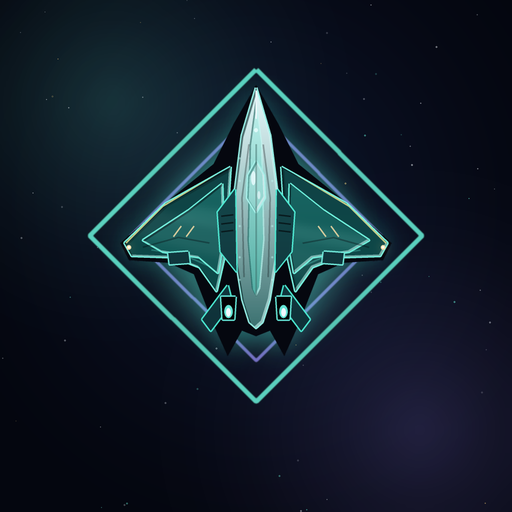
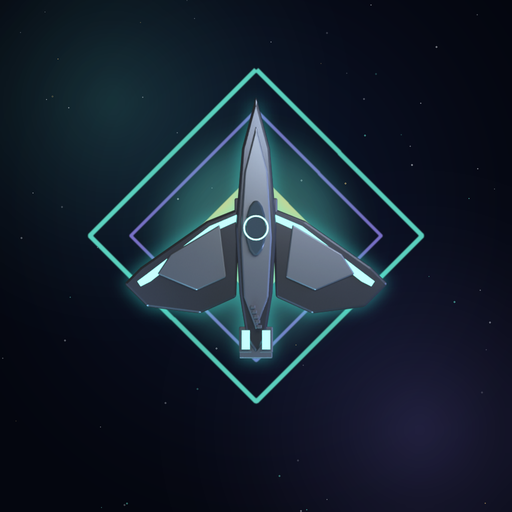
art: 应用图标换成 3D 玩家机（v0.19.2）
- 图标生成器原本就以 Ships/player_pulse.png 为前景源，机体换掉后重跑即可，
  底板/菱形框/金色核心/星点全部沿用
- 3D 装甲偏暗，图标内单独提亮 16%（不影响游戏内精灵）
- 自适应图标链路不变；真机「应用信息」页截图确认已生效
- 版本 0.19.2 / code 21

Changed region(s): [[0.2188, 0.1562, 0.7812, 0.7188]]

diff --git a/Assets/Editor/BuildScript.cs b/Assets/Editor/BuildScript.cs
@@ -210,8 +210,8 @@ namespace AuroraRift.EditorTools
         {
             PlayerSettings.companyName = "sctale";
             PlayerSettings.productName = "Aurora Rift";
-            PlayerSettings.bundleVersion = "0.19.1";
-            PlayerSettings.Android.bundleVersionCode = 20;
+            PlayerSettings.bundleVersion = "0.19.2";
+            PlayerSettings.Android.bundleVersionCode = 21;
             PlayerSettings.SetApplicationIdentifier(NamedBuildTarget.Android, "com.sctale.spacefighter");
             PlayerSettings.defaultInterfaceOrientation = UIOrientation.Portrait;
             PlayerSettings.allowedAutorotateToPortrait = true;

diff --git a/artgen/gen_icon.py b/artgen/gen_icon.py
@@ -107,6 +107,10 @@ def build():
 
     # 舰船
     ship = Image.open(SHIP).convert("RGBA")
+    # 3D 机体的装甲很暗，压在暗底板上小尺寸会像"挖了个洞"：图标里单独提亮一点
+    sr, sg, sb, sa = ship.split()
+    lift = lambda v: min(255, int(v * 1.16 + 10))
+    ship = Image.merge("RGBA", (sr.point(lift), sg.point(lift), sb.point(lift), sa))
     target_h = int(N * 0.60)
     scale = target_h / ship.height
     ship = ship.resize((int(ship.width * scale), target_h), Image.LANCZOS)

diff --git a/Assets/Scripts/UI/Hud.cs b/Assets/Scripts/UI/Hud.cs
@@ -332,7 +332,7 @@ namespace AuroraRift
             }
 
             Txt(_tiny, Center(w, RefH - bottom - 46f, 900f, 24f),
-                Sp("v0.19.1") + "   ·   精准模式 / 擦弹经济 / 过关奖励 / 蓄能换线", Dimc);
+                Sp("v0.19.2") + "   ·   精准模式 / 擦弹经济 / 过关奖励 / 蓄能换线", Dimc);
         }
 
         /// <summary>菱形环：外菱形 + 挖空内菱形（GUI.matrix 旋转在缩放坐标系下不可靠，改用嵌套）。</summary>

diff --git a/docs/RELEASE-v0.19.2.md b/docs/RELEASE-v0.19.2.md
@@ -1,0 +1,24 @@
+# v0.19.2 — 应用图标换成 3D 玩家机
+
+图标是玩家第一眼看到的东西，之前一直是旧手绘的浅色机体，和现在的 3D 重制版不是一套。
+
+## 做法
+
+- 图标生成器 `artgen/gen_icon.py` 原本就以 `Assets/Resources/Ships/player_pulse.png`
+  为前景源，机体在 v0.19.0 换掉后**重跑一次**即可：暗场底板、青色菱形框、紫色内菱形、
+  金色核心、星点全部沿用，只有机体变成新的 3D 版。
+- 3D 机体的装甲很暗，压在暗底板上缩到 100px 会像"挖了个洞"；因此在图标管线里
+  单独给机体提亮 16%（`gen_icon.py` 内部，不影响游戏内精灵）。
+- 安卓自适应图标链路不变：`mipmap-anydpi-v26/app_icon.xml` +
+  `drawable-nodpi/ic_launcher_{bg,fg}.png`，桌面裁圆后仍是「菱形框 + 机体」。
+
+## 验收
+
+- 真机安装后打开「应用信息」页截图，图标已显示为新图：
+  `docs/shots/android_v0192_icon.png`（圆形裁切后的实际效果）。
+- 程序内一切不变：图标只影响启动器与安装器，不改任何运行时行为。
+- 包体 28,199,024 → **28,179,072** 字节。
+
+## 预览
+
+`artgen/icon_preview.png`（1024）与 `artgen/icon_preview_192.png`（桌面实际尺寸）。

diff --git a/CHANGELOG.md b/CHANGELOG.md
@@ -1,5 +1,19 @@
 # 更新记录
 
+## v0.19.2 — 2026-11-03
+
+应用图标换成 Blender 渲出来的玩家机。
+
+- `artgen/gen_icon.py` 本来就以 `Assets/Resources/Ships/player_pulse.png` 为前景源，
+  所以机体换掉后重跑即可：底板、青色菱形框、紫色内菱形、金色核心、星点全部沿用。
+- 3D 机体的装甲比旧手绘暗，压在暗底板上小尺寸会像"挖了个洞"，所以在图标里单独把机体
+  提亮 16%（只影响图标，不影响游戏内精灵）。
+- 自适应图标链路（`mipmap-anydpi-v26/app_icon.xml` + `drawable-nodpi/ic_launcher_{bg,fg}.png`）
+  照旧，安卓桌面裁圆后仍是"菱形框 + 机体"的品牌构图。
+- 验收：真机安装后从「应用信息」页截图确认图标已是新图（`docs/shots/android_v0192_icon.png`）；
+  包体 28,199,024 → **28,179,072** 字节。
+
+
 ## v0.19.1 — 2026-11-03
 
 美术重制第二步：把**弹体 / 僚机 / 补给箱**这 20 张小件换成同一套 3D 渲染，

diff --git a/README.md b/README.md
@@ -4,7 +4,7 @@
 
 <p>
   <img src="docs/shots/android_v0191_play.png" width="290" alt="战斗 HUD（Blender 重制机体与弹体）" />
-  <img src="docs/shots/art_small_v0191.jpg" width="290" alt="弹体 / 僚机 / 补给箱图鉴" />
+  <img src="artgen/icon_preview.png" width="290" alt="应用图标（3D 玩家机）" />
   <img src="docs/shots/art_pilot_compare.jpg" width="290" alt="旧手绘 / 纯 3D / 3D+外发光" />
 </p>
 
@@ -40,7 +40,7 @@
 
 到 [Releases](https://github.com/sctale/SpaceFighter-Unity/releases/latest) 下载：
 
-- `AuroraRift-Unity-v0.19.1.apk`（Android Debug 签名，安装时允许“未知来源”即可）
+- `AuroraRift-Unity-v0.19.2.apk`（Android Debug 签名，安装时允许“未知来源”即可）
 
 桌面版：`Builds/Windows/SpaceFighter.exe`（Unity 构建产物，本地生成）。
 
